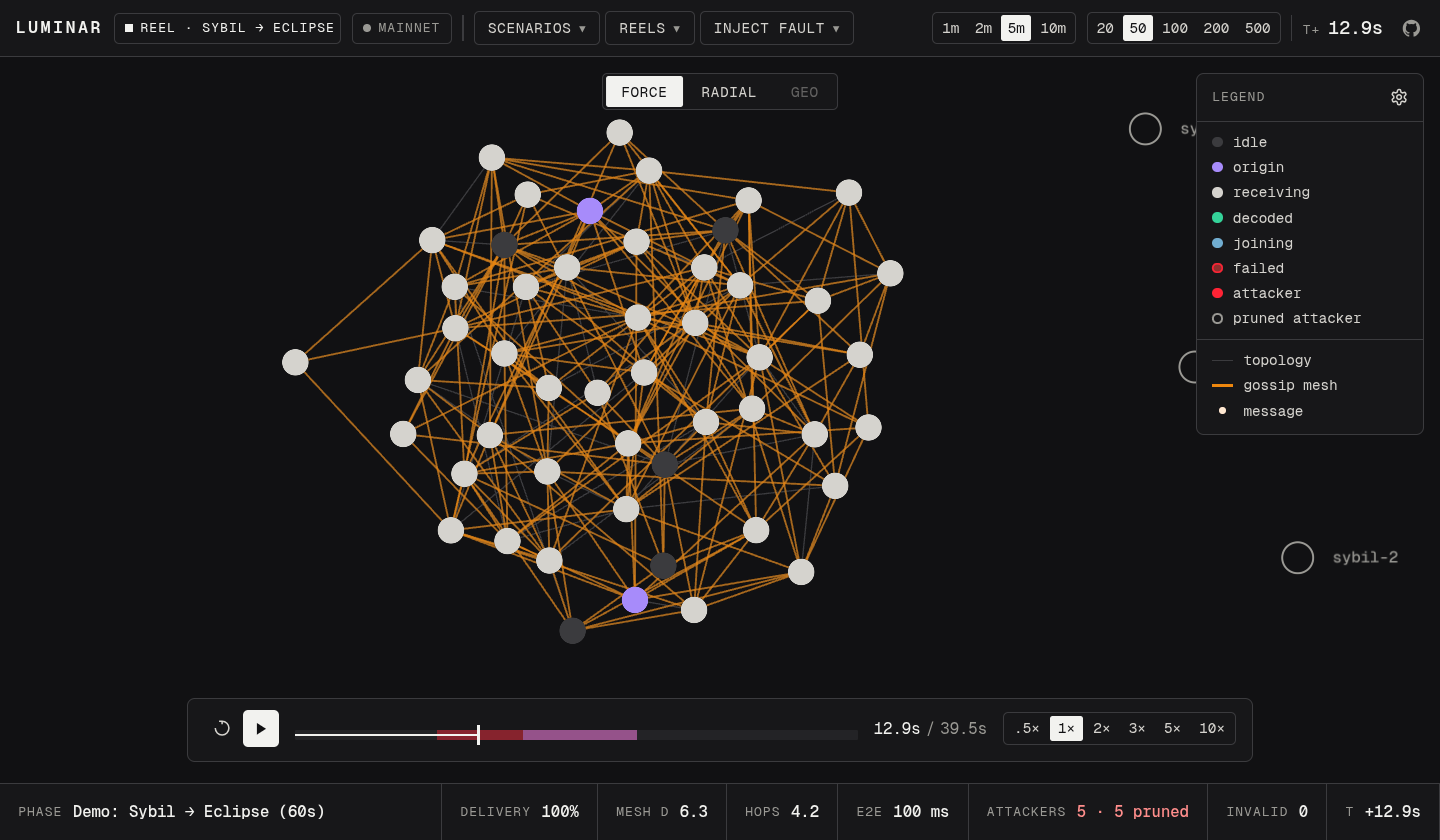
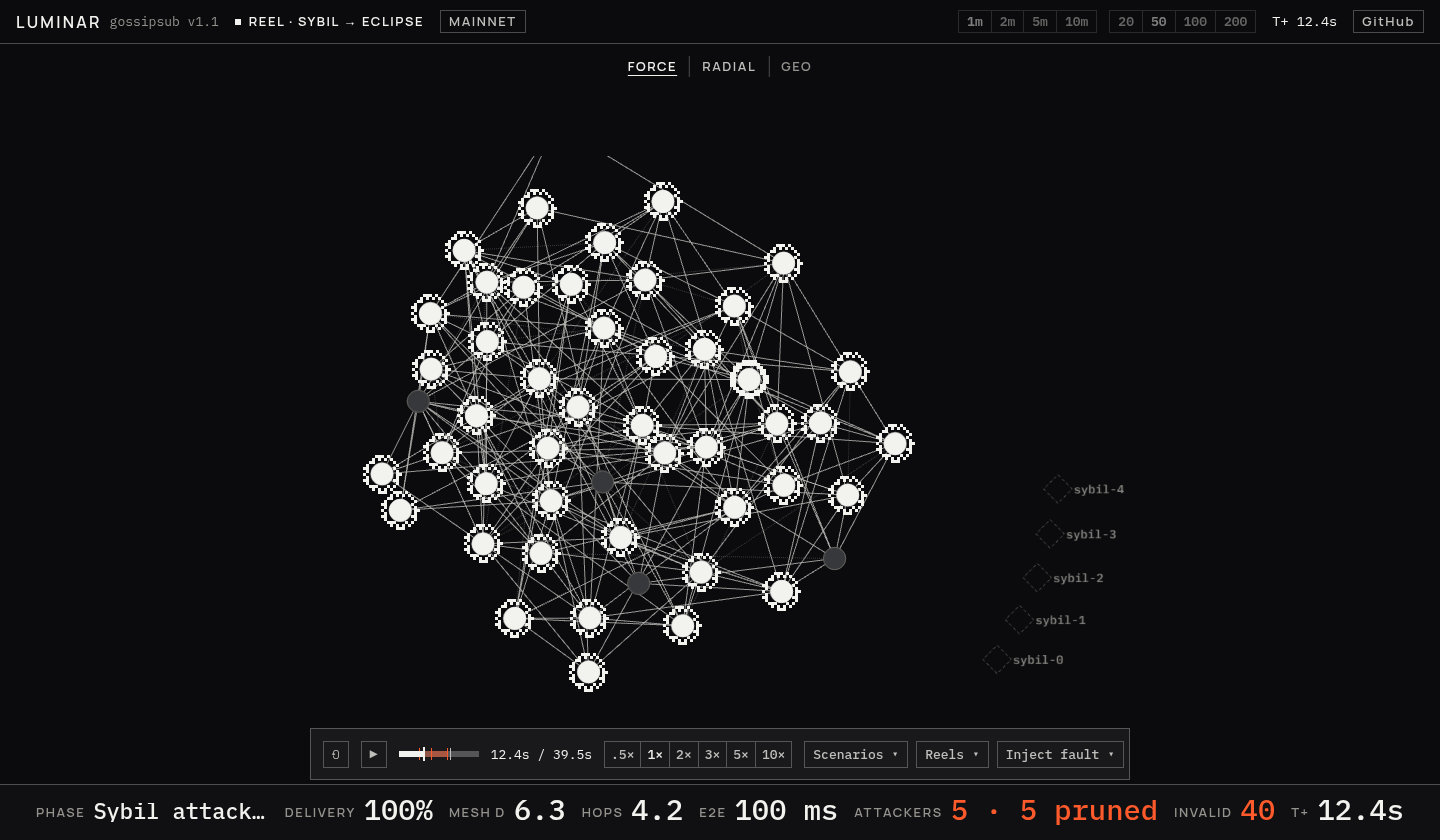
docs(readme): new visuals of the Next.js UI; hero ticker keeps its phase cell
- README: landing, simulator (Force, Radial), stage/hero and relay-globe stills re-shot from the
  static export at 1440x840; the Sybil→eclipse demo and the recorded mainnet block wave re-recorded
  as real-time screencasts (mainnet-wave.gif replaces live-mainnet.gif). Alt text describes what
  each capture shows; the 'shot on the retired Vite frontend' note and the event/date lines go.
- docs/readme-assets.md: recipes for the new captures.
- Ticker: the phase cell kept collapsing to 0 px in hero mode (seven 48 px cells filled the bar),
  running PHASE into DELIVERY. It now has a 220 px floor and a text-sized value, figures cap at
  2.1vw (2vw below 1600 px), and the bar scrolls instead of clipping; fits exactly at 1920, 1600, 1440.

diff --git a/web/components/sim/Ticker.module.css b/web/components/sim/Ticker.module.css
@@ -10,14 +10,19 @@
   align-items: center;
   gap: var(--gutter);
   padding: 0 var(--gutter);
-  overflow: hidden;
+  overflow-x: auto;              /* narrow desktops (≈1280) scroll the last cell into reach instead of clipping it */
+  overflow-y: hidden;
+  scrollbar-width: none;
   white-space: nowrap;
   background: var(--pitch-1);
   border-top: 1px solid var(--hair-strong);
 }
 
 .cell { display: flex; align-items: center; gap: var(--s-2); min-width: 0; flex: none; }
-.cell:first-child { flex: 0 1 auto; }   /* the phase cell truncates, never wraps */
+/* The phase cell is the only one that may shrink: it keeps a floor (so a long phase never collapses it to 0 and runs its
+   key into DELIVERY) and truncates past that; its value is a sentence, so it sits at a text size, not the 48 px figures. */
+.cell:first-child { flex: 1 1 auto; min-width: 220px; }
+.cell:first-child .value { font-size: min(24px, calc(var(--ticker-h) - 24px)); }
 
 .key {
   font: 600 var(--t-label)/1 var(--font-ui);
@@ -33,7 +38,7 @@
   text-overflow: ellipsis;
   font: 500 var(--t-hero-n)/1 var(--font-mono);
   /* --t-hero-n reaches 88 px, which cannot sit in a 56 px bar: cap at the bar height minus 8 px (48 px, still ≥ 44) */
-  font-size: min(var(--t-hero-n), calc(var(--ticker-h) - 8px));
+  font-size: min(var(--t-hero-n), calc(var(--ticker-h) - 8px), 2.1vw);   /* 2.1vw: eight cells plus the phase floor fit at 1440 and 1920 */
   font-variant-numeric: tabular-nums;
   color: var(--paper-0);
   text-box: trim-both cap alphabetic;   /* centre the digits, not the font's ascent/descent box */
@@ -41,8 +46,15 @@
 }
 .cell[data-danger] .value { color: var(--flame); }
 
+/* Below the 1920 stage target the gaps tighten so all eight cells fit beside the phase floor */
+@media (max-width: 1600px) {
+  .ticker { gap: var(--s-4); }
+  .value { font-size: min(var(--t-hero-n), calc(var(--ticker-h) - 8px), 2vw); }
+  .cell:first-child .value { font-size: min(22px, 1.6vw); }
+}
+
 /* Touch band: smaller numbers, tighter gaps, the phase cell truncates and the rest scrolls */
 @media (max-width: 1024px) {
   .ticker { --t-hero-n: clamp(20px, 3.2vw, 44px); gap: var(--s-3); overflow-x: auto; scrollbar-width: none; }
-  .cell:first-child { min-width: 0; overflow: hidden; }
+  .cell:first-child { min-width: 140px; overflow: hidden; }
 }

diff --git a/README.md b/README.md
@@ -12,16 +12,13 @@
 
 Luminar is a real-time simulator of libp2p GossipSub v1.1: 2–500 peers run mesh maintenance, flood publish, IHAVE/IWANT and P1–P4 peer scoring in a trio loop, and a deck.gl map draws every GRAFT, PRUNE and message hop as it happens. You inject the attack (Sybil, eclipse, partition, drop, latency) and watch which ones scoring catches and which it cannot see. Same mechanism as a beacon node, toy constants.
 
-Built for a talk at Devcon 8 (Mumbai, 3–6 Nov 2026). _Talk link added once published._
-
 ## See it
 
-> [!NOTE]
-> The screen captures below (both GIFs, `ui-main`, `ui-radial`, `stage-hero`) were shot on the retired Vite frontend. `web/` keeps the same map, keys and reels, but its rails and inspector differ: [docs/ui.md](docs/ui.md) describes the current screens, [docs/readme-assets.md](docs/readme-assets.md) how to re-shoot them.
+![The landing page: the headline "Watch a peer-to-peer network defend itself" on a hatched grid cell beside a rotating cyan pixel globe of the mesh with an "All peers gossiping" status chip, and a "Modelled on" row of libp2p, GossipSub v1.1, Ethereum, OpenTelemetry and Prometheus.](assets/readme/landing.png)
 
-![Hero mode, 50 peers, reel sybil-eclipse: at T+10 s five Sybil nodes (red) graft into the mesh and flood it; P4 drives their score past −10 and the mesh prunes them with reason=score within two heartbeats, their markers turning hollow. At T+16 s four silent attackers close around peer-10; scoring sees only a small P3 deficit and never prunes them. At T+24 s the faults clear and the mesh heals in about 1.4 s.](assets/readme/demo-sybil-eclipse.gif)
+![Stage theme, hero layout, the sybil-eclipse recording from T+8 s: five Sybils graft in and flood, P4 scoring prunes them into hollow diamonds within two heartbeats, then four silent attackers close around peer-10 and scoring never sees them; the narrator caption names each phase and the lower-third ticker tracks delivery, mesh degree, hops, latency, attackers and invalid messages.](assets/readme/demo-sybil-eclipse.gif)
 
-![Geo layout, live Ethereum mainnet, Free Play underneath: 140 real observer nodes light up across the world map in the order they saw one slot's block, first sighting and p50 in the ticker. Arrival at observer nodes, ~2.5 min behind, not mesh paths.](assets/readme/live-mainnet.gif)
+![The recorded mainnet block wave on the Geo layout: 138 real observer nodes light up across the world map in the order they first saw the block of slot 15466393, with the slot, first sighting and p50 in the ticker. Arrival at observer nodes, not mesh paths; data from ethPandaOps (CC BY 4.0).](assets/readme/mainnet-wave.gif)
 
 Offline, no backend: `http://localhost:3000/reels/sybil-eclipse/?theme=stage&hero=1`.
 
@@ -66,7 +63,7 @@ Python 3.12 with `uv`, Node 22 with `npm`. `make docker` runs both halves in one
 | stage · hero | `t` · `h`, or `?theme=stage&hero=1` | projector theme; hero hides the rails, legend and tooltip and shows the ticker; both persist in `localStorage` |
 | share | `s` | copies the current URL with `&peer=<id>`, plus `&t=<sec>` in a paused reel, so a link opens that moment |
 
-![Main screen, Force layout, 50 peers after a Sybil attack: the five attackers sit pruned outside the mesh, n7 is selected and the inspector shows its score history, ten connected peers and live events; the stats panel has delivery, propagation, the delivery CDF and event categories.](assets/readme/ui-main.png)
+![The simulator on the sybil-eclipse recording at T+13.4 s, Force layout: the five Sybils sit pruned outside the mesh, peer n7 is selected and the inspector shows its score (+5.48), full mesh (6/6), mesh and topology peers and its live events; the left rail charts delivery, propagation, hops and mesh degree, the node breakdown, message counts with 40 invalid, the delivery CDF and the beats so far.](assets/readme/ui-main.png)
 
 | scenario | topology | phases |
 |---|---|---|
@@ -83,7 +80,9 @@ Python 3.12 with `uv`, Node 22 with `npm`. `make docker` runs both halves in one
 | `3` | `healthy-publish` | 50 | 2.3 MB |
 | `4` | `mainnet-block-wave` (real, slots 15466393–15466400) | 138 | 7.0 MB |
 
-![Radial layout, 50 peers: rings ordered by mesh degree, message particles crossing between rings during a flood publish.](assets/readme/ui-radial.png)
+![Radial layout of the same moment: 50 peers on rings ordered by mesh degree, the pruned Sybils on the rim, the event log streaming gossip messages on the right.](assets/readme/ui-radial.png)
+
+![Fig. 2, the relay globe (`/figure/`): a hand-inked desk globe with twelve relay stations and their mesh arcs; Post, Heartbeat, Sybil, Eclipse, Partition and Heal buttons act out each attack, here two heartbeats after a Sybil bolted on, its score at −10.00 and 12/12 delivered.](assets/readme/globe.png)
 
 <details>
 <summary>Recording a reel</summary>
@@ -248,11 +247,11 @@ make docker      # builds web/, serves it with the backend from one container on
 - [docs/research-live-network.md](docs/research-live-network.md): mainnet data sources and what they can and cannot show
 - [docs/readme-assets.md](docs/readme-assets.md): how every image and GIF above is regenerated
 
-## Devcon 8
+## Stage mode
 
-![Stage theme with the hero layout on a 1440×840 viewport: the mesh alone, stats panel, event log and inspector hidden, the phase ticker along the bottom, paused at T+12.9 s with all five Sybils pruned, as projected during the talk.](assets/readme/stage-hero.png)
+![Stage theme with the hero layout at 1440×840: the mesh alone, the rails, legend and inspector hidden, the lower-third ticker reading the phase, delivery, mesh degree, hops, latency, attackers and invalid messages, paused at T+12.4 s with all five Sybils pruned.](assets/readme/stage-hero.png)
 
-The stage build is `/reels/sybil-eclipse/?theme=stage&hero=1`; `t` and `h` toggle the same at a live backend. Mumbai, 3–6 Nov 2026.
+The stage build is `/reels/sybil-eclipse/?theme=stage&hero=1`; `t` and `h` toggle the same at a live backend.
 
 ## License
 

diff --git a/docs/readme-assets.md b/docs/readme-assets.md
@@ -4,18 +4,20 @@ Everything under `assets/readme/` is reproducible from a running `make dev` at 1
 HTML sources in `assets/readme/src/` (they load Geist from the vendored woff2 files in
 `assets/readme/fonts/`, OFL-1.1, from `@fontsource/geist` and `@fontsource/geist-mono` 5.3.0).
 
-The two GIFs and `ui-main`, `ui-radial`, `stage-hero` were last shot on the retired Vite frontend
-(62360a3); the recipes below give the `web/` URLs for re-shooting them.
+The screen captures are taken from the static export (`make build`, then serve `web/out`) in headless
+Chromium at 1440×840, device scale 1; the GIFs are real-time screencasts of the recordings.
 
 | file | how |
 |---|---|
 | `banner.png` 2560×800 | open `src/banner.html` in Chrome at 1280×400, device scale 2, screenshot; `magick -colors 255 PNG8:` to shrink |
 | `social-preview.png` 1280×640 | `src/banner-social.html` at 1280×640, scale 1; upload under repo Settings → Social preview |
 | `loud-vs-quiet.png` 1600×900 | `src/figure-loud-quiet.html` at 1600×900, scale 1 |
-| `demo-sybil-eclipse.gif` | `/reels/sybil-eclipse/?theme=stage&hero=1`, press Space, screen-record ~30 s, then the ffmpeg line below with `-ss 9.5 -t 20` (T+8 → T+28) |
-| `live-mainnet.gif` | Free Play scenario, MAINNET on, `/sim/?theme=stage&hero=1`, record ≥ 30 s, cut 1.5 s before a wave (`select='gt(scene,0.01)'` on the map crop finds them) with `-t 16` |
-| `ui-main.png` | `/sim/?peer=peer-7` after `POST /api/fault/sybil {"n_attackers":5}`, press `f` |
-| `ui-radial.png` | same, Radial tab |
+| `landing.png` | `/` |
+| `demo-sybil-eclipse.gif` | `/reels/sybil-eclipse/?theme=stage&hero=1&t=8`, press Space, screencast 21 s, encode at `fps=10,scale=760` with the palette line below |
+| `mainnet-wave.gif` | `/reels/mainnet-block-wave/?theme=stage&hero=1`, press Space, screencast 16 s, `fps=8,scale=760` |
+| `ui-main.png` | `/reels/sybil-eclipse/?t=13&peer=peer-7`, press `f` |
+| `ui-radial.png` | `/reels/sybil-eclipse/?t=13`, Radial tab |
+| `globe.png` | `/figure/?press=Post@300,Heartbeat@1500,Sybil@2500,Heartbeat@4000`, at 6.2 s |
 | `stage-hero.png` | `/reels/sybil-eclipse/?theme=stage&hero=1&t=12.4` |
 | `grafana.png` | `make otel-up`, backend with `OTEL_EXPORTER_OTLP_ENDPOINT`, run `demo_sybil_eclipse`, then `http://127.0.0.1:3000/d/luminar-gossipsub?kiosk&from=now-4m&to=now` |
 | `jaeger.png` | `make otel-smoke` prints the trace URL |
